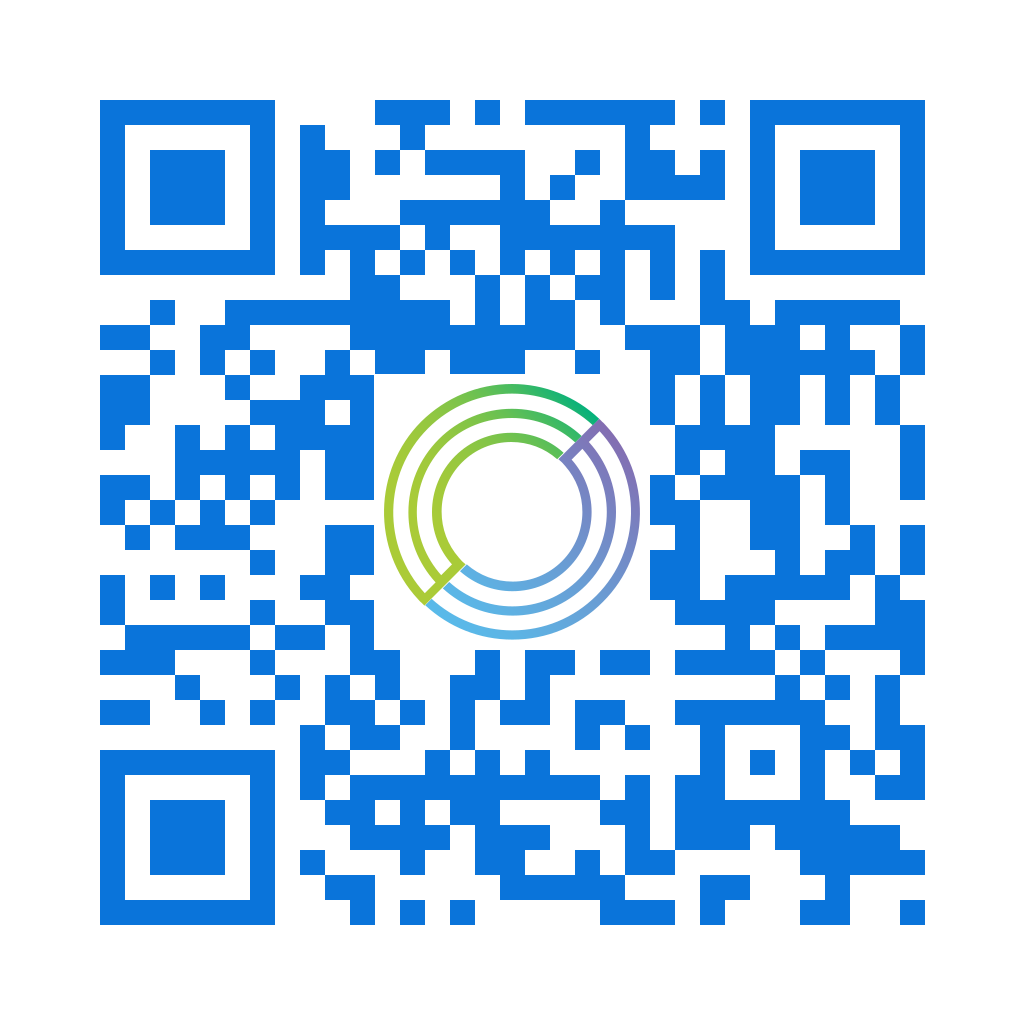
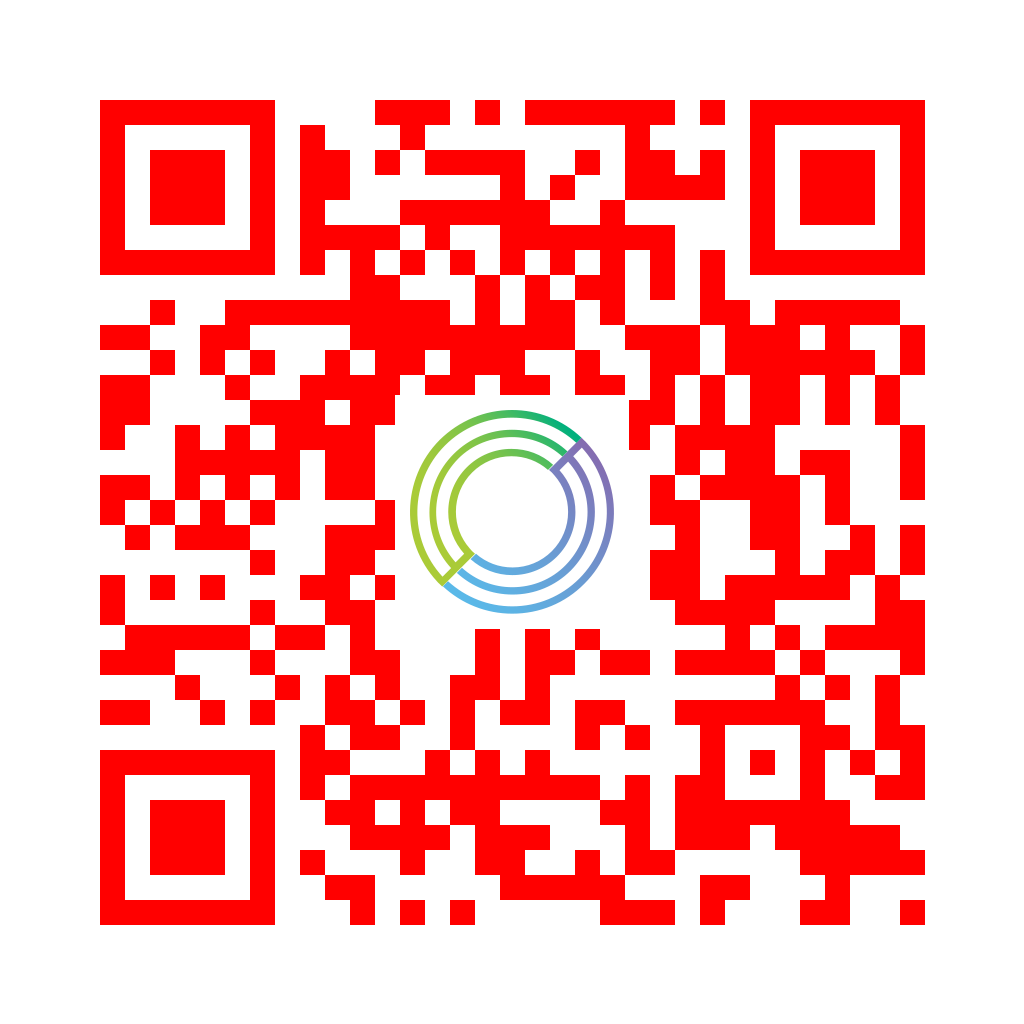
Now the fucntion take everything in input

diff --git a/qr.js b/qr.js
@@ -1,39 +1,43 @@
 const QRCode = require('qrcode');
 const sharp = require('sharp');
 
-async function generateQRCodeWithHighResLogo(url, logoPath, outputPath) {
+async function generateQRCodeWithHighResLogo(url, logoPath, outputPath, options = {}) {
   try {
-    // Define QR code options
-    const qrOptions = {
+    // Define default QR code options
+    const defaultQROptions = {
       errorCorrectionLevel: 'H',
       color: {
         dark: '#0A74DA', // Dark sky blue color
         light: '#FFFFFF' // White background
       },
-      width: 1024 // Higher width for better quality
+      width: 1024, // Higher width for better quality
+      logoSize: 0.25, // Default logo size as a percentage of QR code size
+      logoMargin: 20 // Default logo margin in pixels
     };
 
+    // Merge default options with provided options
+    const mergedOptions = { ...defaultQROptions, ...options };
+
     // Generate QR code
-    const qrCodeBuffer = await QRCode.toBuffer(url, qrOptions);
+    const qrCodeBuffer = await QRCode.toBuffer(url, mergedOptions);
 
-    // Load the QR code buffer with sharp
+    // Load QR code buffer with Sharp
     const qrImage = sharp(qrCodeBuffer);
-
-    // Get QR code metadata
     const qrMetadata = await qrImage.metadata();
 
-    // Load and resize the logo image with sharp for high-quality processing
+    // Load and resize the logo image
     const logoBuffer = await sharp(logoPath)
-      .resize(Math.floor(qrMetadata.width / 4), Math.floor(qrMetadata.height / 4), {
+      .resize({
+        width: Math.floor(qrMetadata.width * mergedOptions.logoSize),
+        height: Math.floor(qrMetadata.height * mergedOptions.logoSize),
         fit: sharp.fit.contain,
-        kernel: sharp.kernel.lanczos3 // Use a high-quality resampling kernel
+        kernel: sharp.kernel.lanczos3
       })
-      .png() // Convert to PNG format for compatibility
       .toBuffer();
 
-    // Create a white background for the logo with margin
-    const logoSize = Math.floor(qrMetadata.width / 4);
-    const margin = 20; // Adjust margin as needed
+    // Create white background for the logo with margin
+    const logoSize = Math.floor(qrMetadata.width * mergedOptions.logoSize);
+    const margin = mergedOptions.logoMargin;
     const logoWithMargin = await sharp({
       create: {
         width: logoSize + margin,
@@ -46,7 +50,7 @@ async function generateQRCodeWithHighResLogo(url, logoPath, outputPath) {
       .png() // Ensure output is in PNG format for compatibility
       .toBuffer();
 
-    // Composite the logo onto the QR code
+    // Composite logo onto QR code
     const compositeImage = await qrImage
       .composite([
         {
@@ -55,10 +59,9 @@ async function generateQRCodeWithHighResLogo(url, logoPath, outputPath) {
           left: Math.floor((qrMetadata.width - logoSize - margin) / 2)
         }
       ])
-      .png() // Ensure output is in PNG format for compatibility
       .toBuffer();
 
-    // Save the resulting image
+    // Save resulting image
     await sharp(compositeImage).toFile(outputPath);
     console.log('High-quality QR code with high-resolution logo generated successfully!');
   } catch (error) {
@@ -66,10 +69,4 @@ async function generateQRCodeWithHighResLogo(url, logoPath, outputPath) {
   }
 }
 
-// Example usage
-const url = 'https://yourwebsite.com/table/123';
-// const logoPath = './imgs/Yologo1.png'; // Ensure this is a high-resolution SVG file
-const logoPath = 'input.svg'; // Ensure this is a high-resolution SVG file
-const outputPath = 'output.png';
-
-generateQRCodeWithHighResLogo(url, logoPath, outputPath);
+module.exports = { generateQRCodeWithHighResLogo };

diff --git a/use.js b/use.js
@@ -1,0 +1,16 @@
+const {generateQRCodeWithHighResLogo} = require("./qr.js");
+
+const url = 'https://yourwebsite.com/table/123';
+const logoPath = 'input.svg'; // Ensure this is a high-resolution SVG file
+const outputPath = 'output.png';
+
+const options = {
+  color: {
+    dark: '#FF0000', // Red color for QR code
+    light: '#FFFFFF' // White background color
+  },
+  logoSize: 0.2, // 30% of QR code size
+  logoMargin: 30 // 30 pixels margin around logo
+};
+
+generateQRCodeWithHighResLogo(url, logoPath, outputPath, options);
